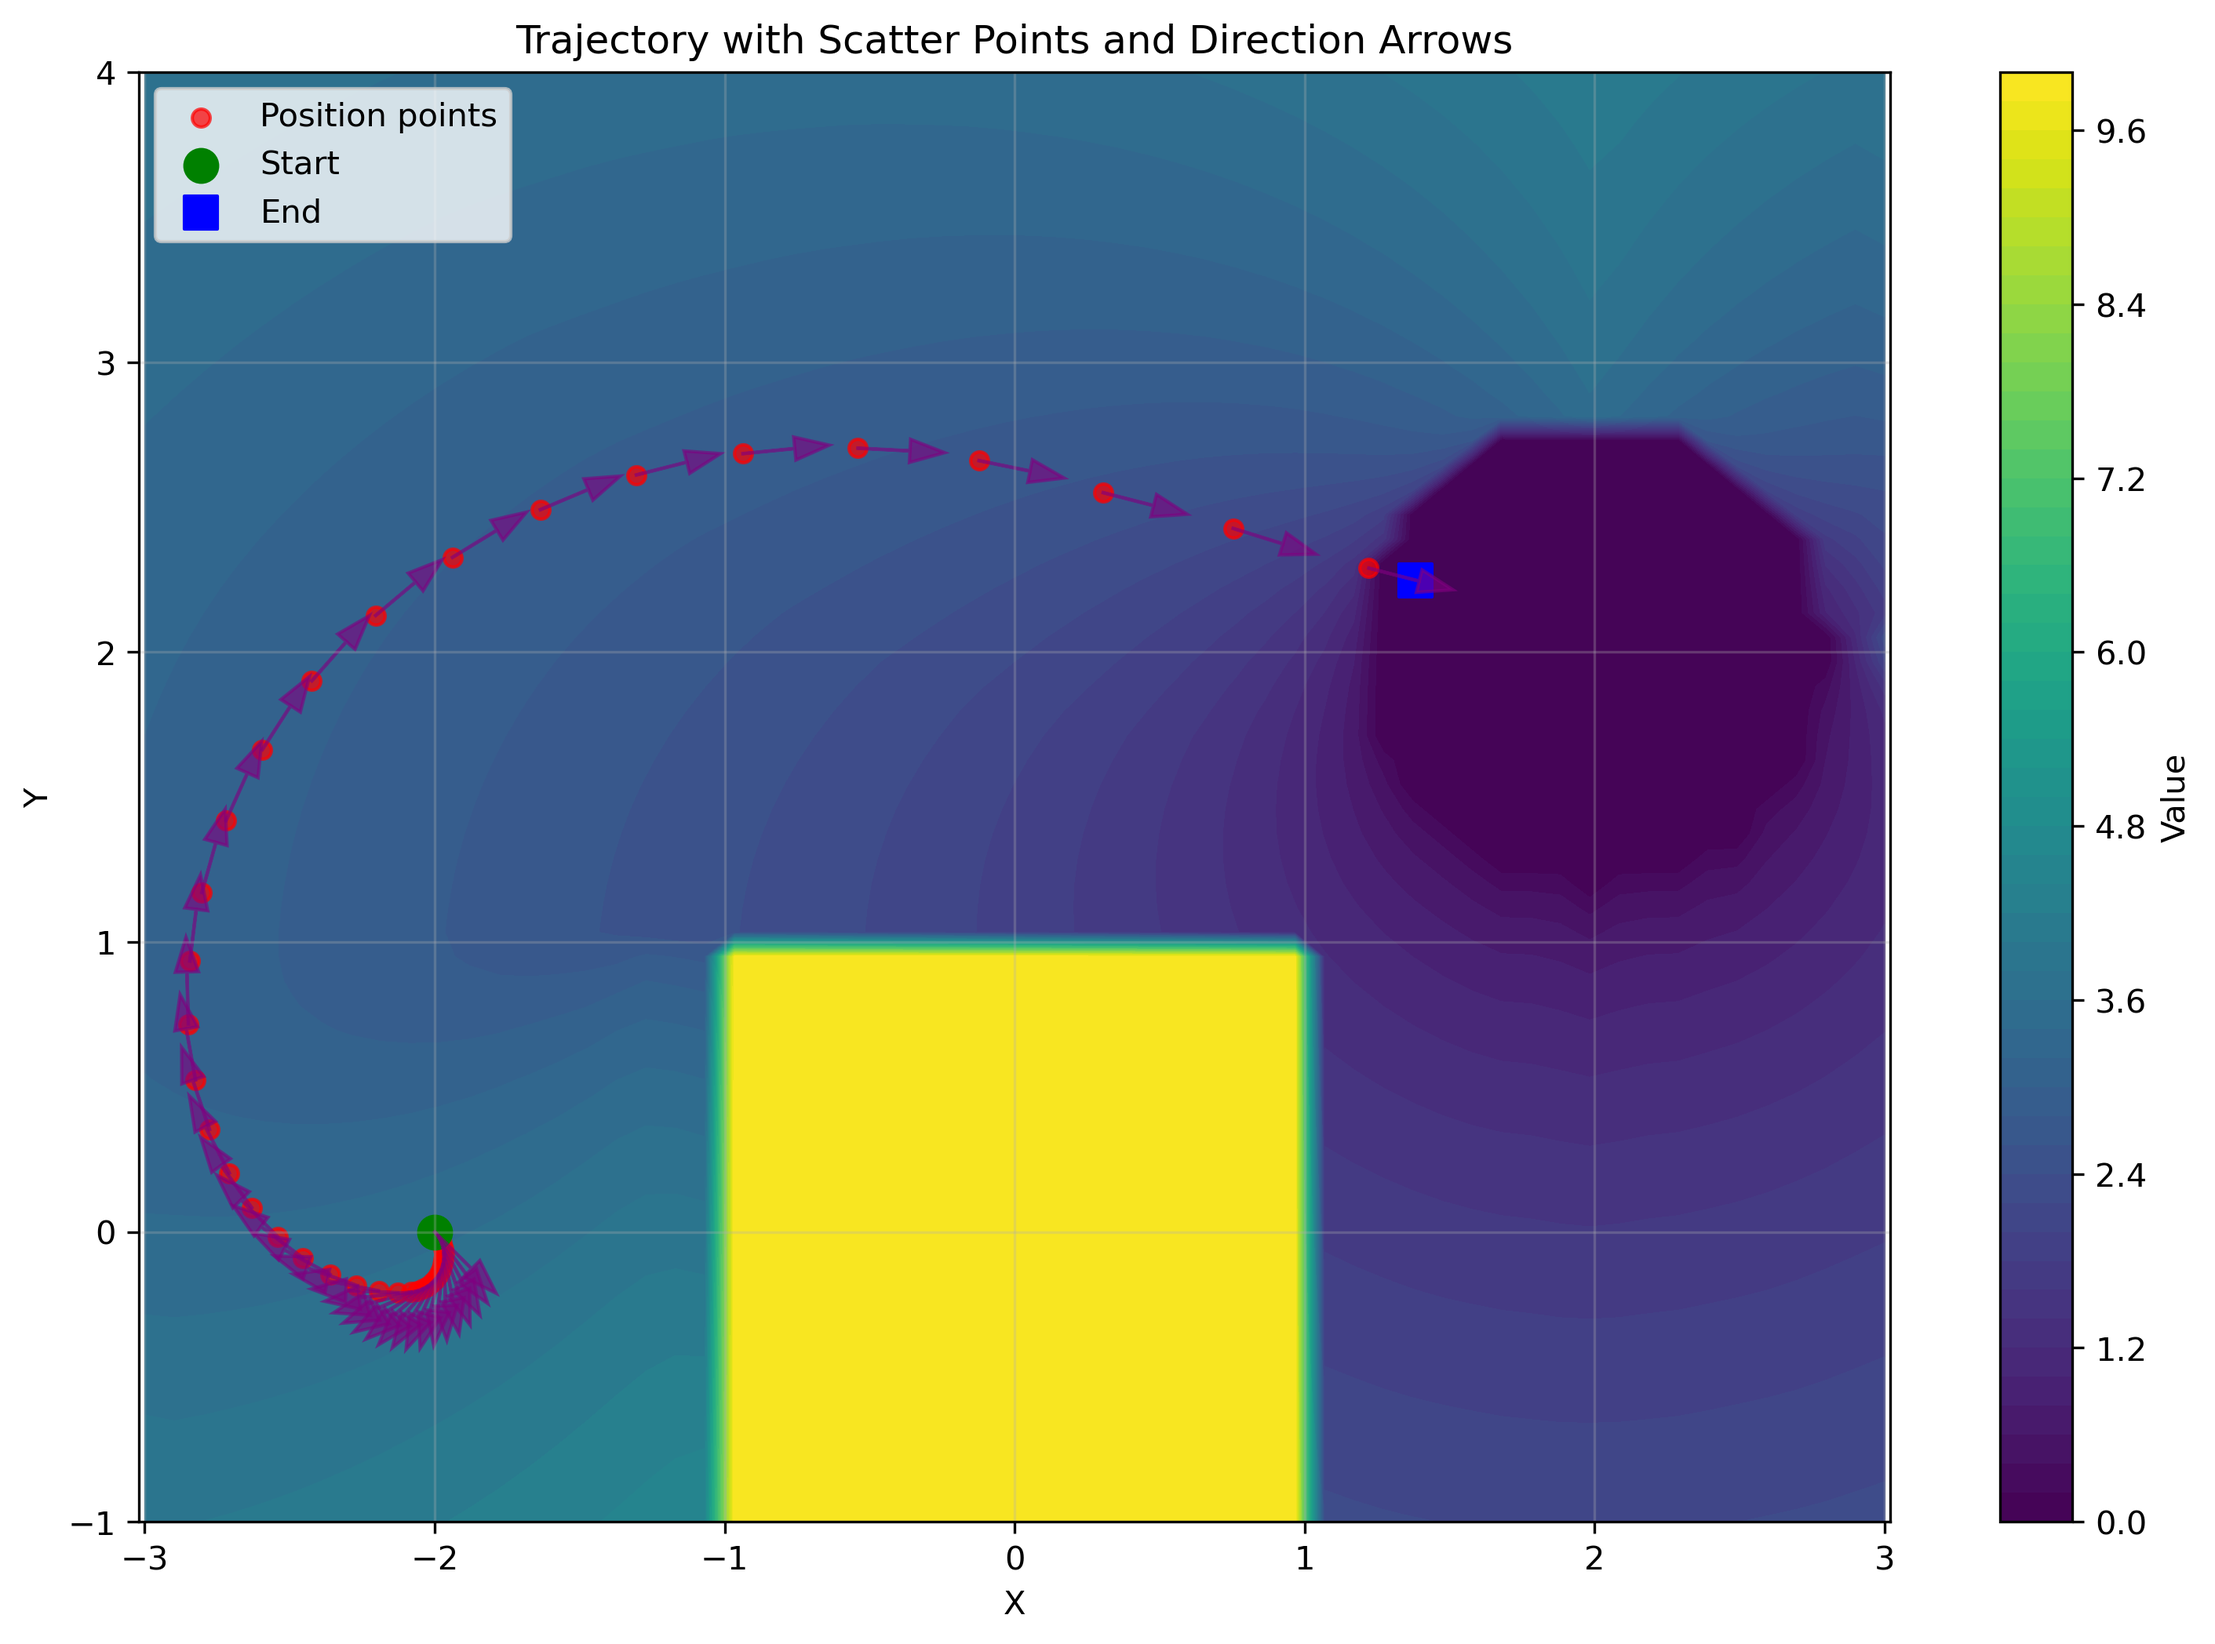
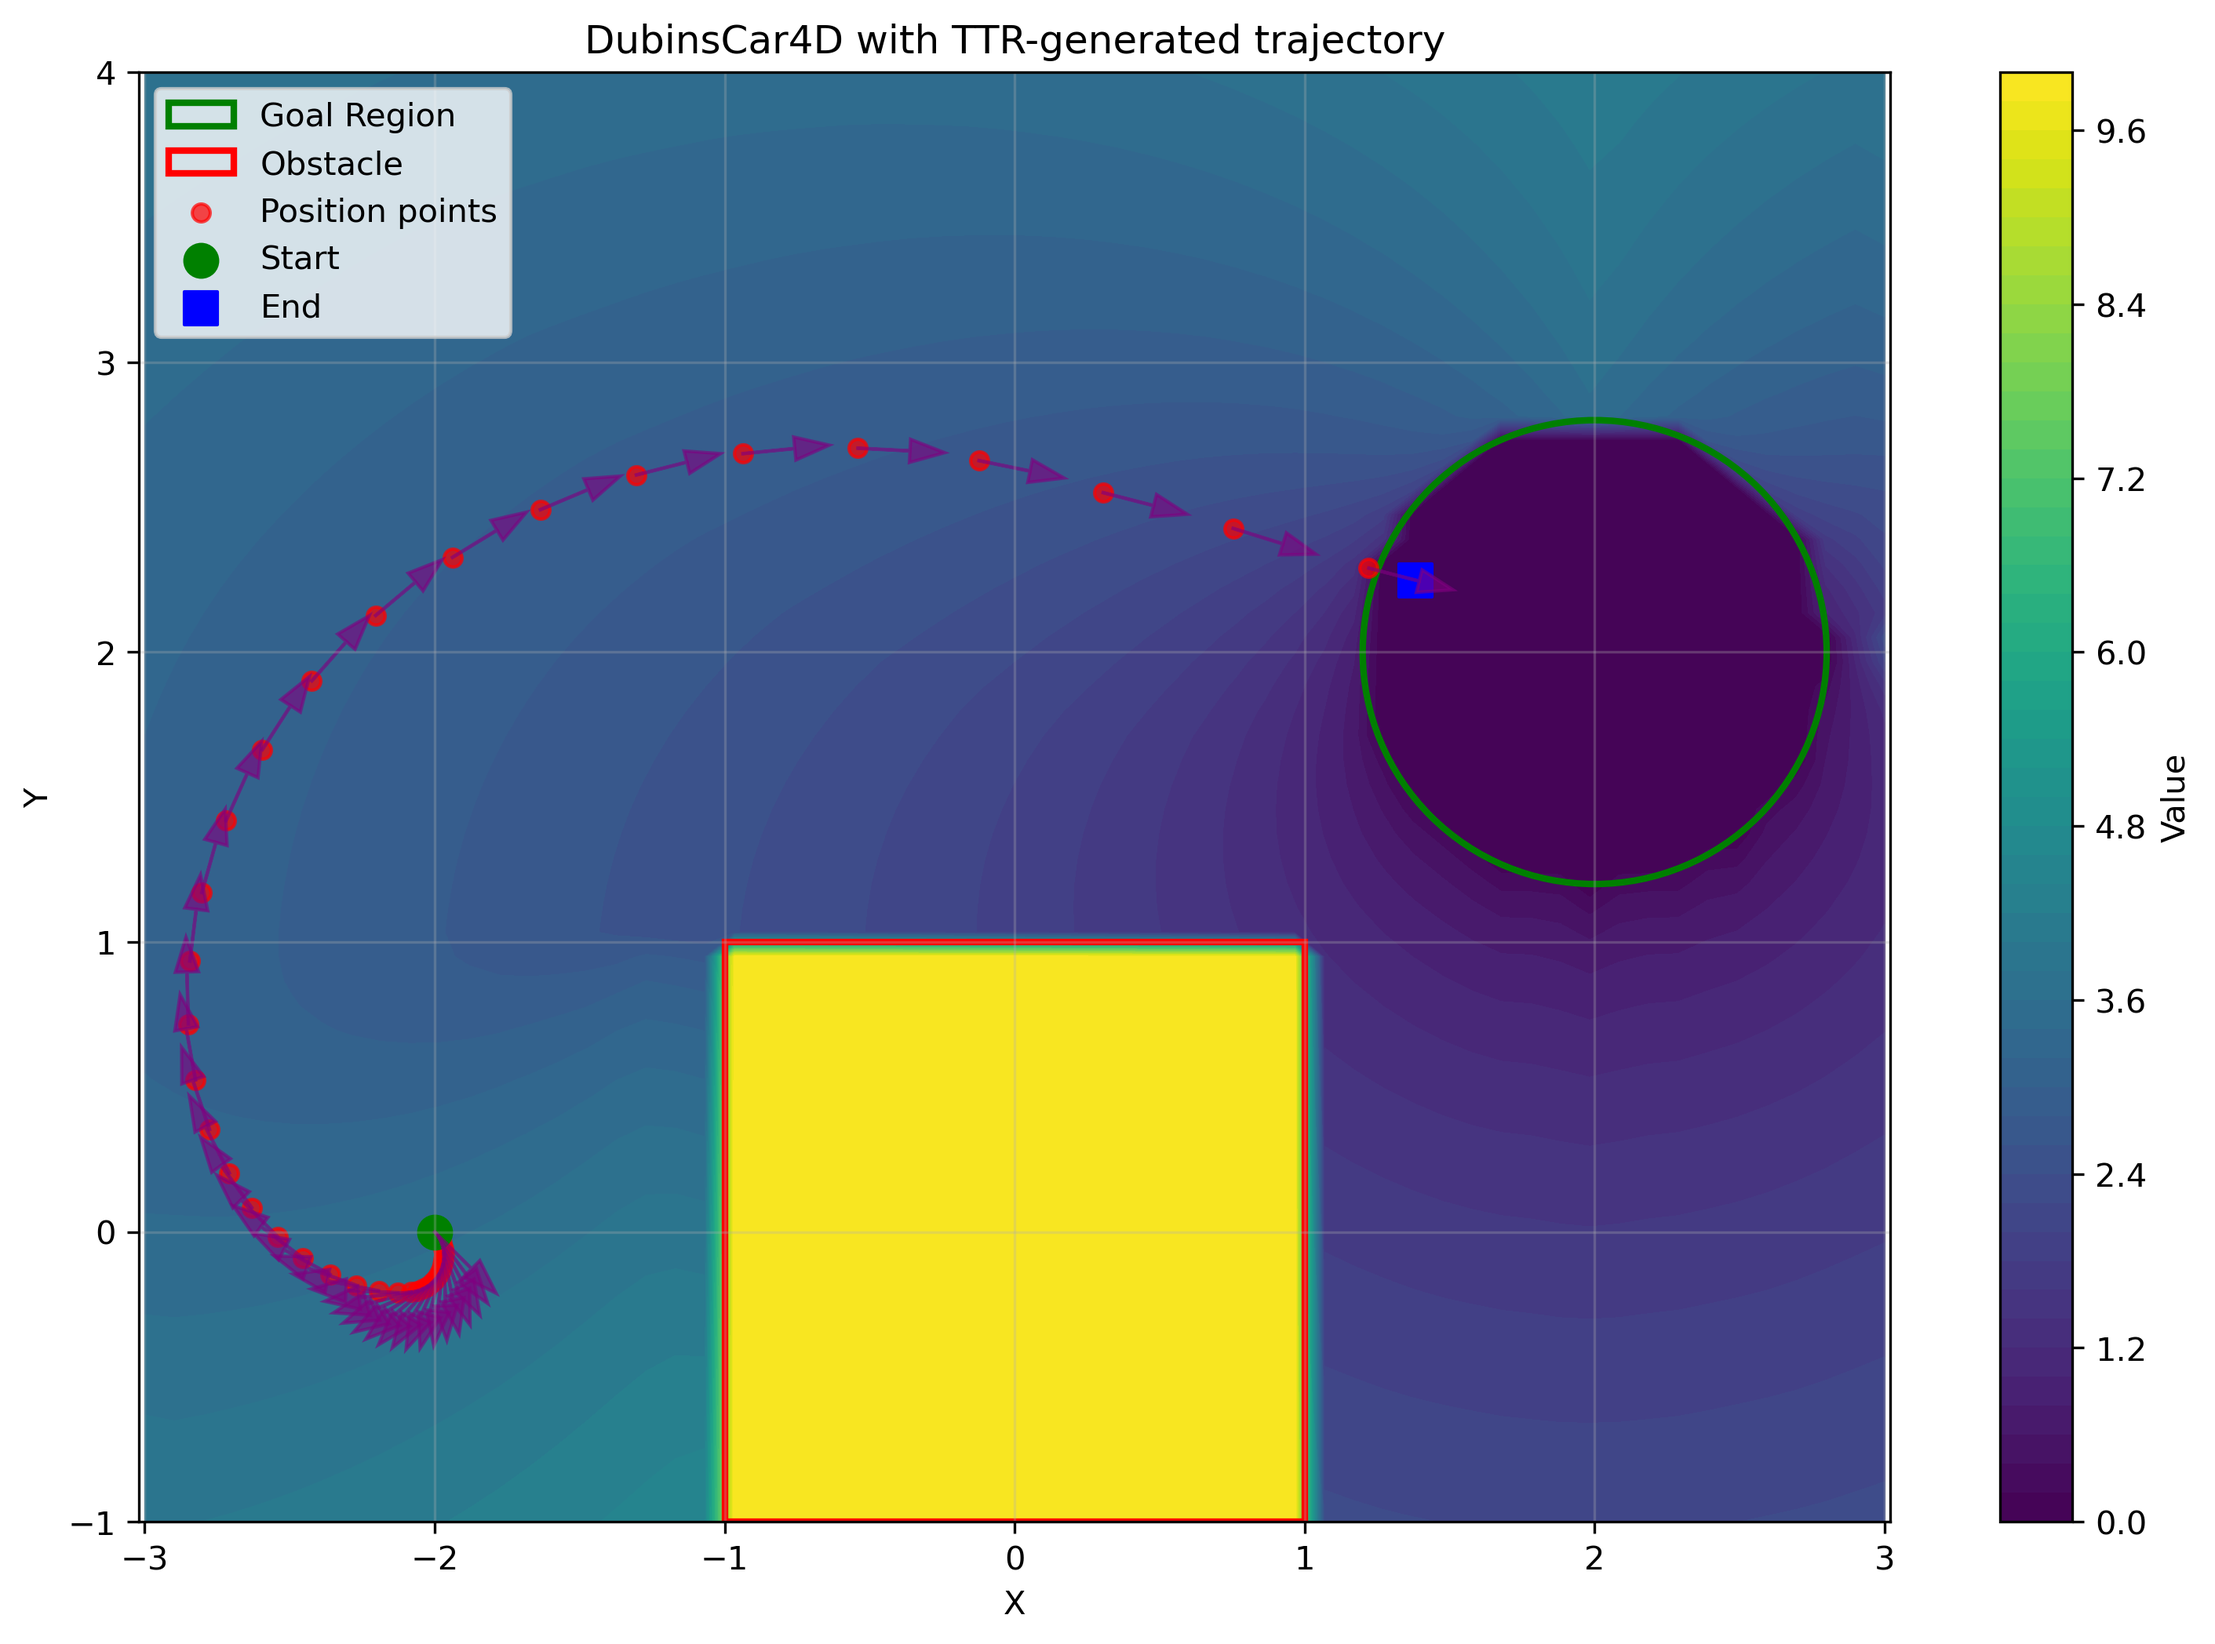
revise the plotting functions

diff --git a/paper_examples/odp_paper/utils.py b/paper_examples/odp_paper/utils.py
@@ -259,7 +259,7 @@ def plot_trajectory_scatter(traj, ax=None, save_dir=None, scatter_density=10, x_
     
     ax.set_xlabel('X')
     ax.set_ylabel('Y')
-    ax.set_title('Trajectory with Scatter Points and Direction Arrows')
+    ax.set_title('DubinsCar4D with TTR-generated trajectory')
     ax.legend(loc='upper left')
     ax.grid(True, alpha=0.3)
     ax.axis('equal')
@@ -312,9 +312,12 @@ def plot_trajectories_basic(p_traj, e_traj, save_dir=None):
     plt.show()
 
 
-def plot_value_contour(grid, value_function, plot_dims, fixed_values=None, vmin=0, vmax=10, ax=None, save_dir=None):
+def plot_value_contour(grid, value_function, plot_dims, fixed_values=None, vmin=0, vmax=10, 
+                      ax=None, save_dir=None, goal_center=None, goal_radius=None, 
+                      obstacles=None, obstacle_color='red', goal_color='green',
+                      linewidth=2, linestyle='-'):
     """
-    Plot a contour slice of a 4D value function.
+    Plot a contour slice of a 4D value function with goal and obstacles (boundaries only).
     
     Parameters:
     -----------
@@ -331,6 +334,20 @@ def plot_value_contour(grid, value_function, plot_dims, fixed_values=None, vmin=
         Axes to plot on. If None, creates new figure.
     vmin, vmax : float
         Value range for color mapping
+    goal_center : tuple, optional
+        (x, y) coordinates of the goal center
+    goal_radius : float, optional
+        Radius of the goal circle
+    obstacles : list of tuples, optional
+        List of obstacle rectangles as [(x_min, x_max, y_min, y_max), ...]
+    obstacle_color : str, optional
+        Color for obstacle boundaries
+    goal_color : str, optional
+        Color for goal boundary
+    linewidth : float, optional
+        Line width for boundaries
+    linestyle : str, optional
+        Line style for boundaries
     
     Returns:
     --------
@@ -427,11 +444,32 @@ def plot_value_contour(grid, value_function, plot_dims, fixed_values=None, vmin=
     # Add colorbar
     cbar = fig.colorbar(contour, ax=ax, label='Value')
     
+    # Plot goal circle boundary if provided
+    if goal_center is not None and goal_radius is not None:
+        goal_circle = plt.Circle(goal_center, goal_radius, color=goal_color, alpha=1.0, 
+                               fill=False, linewidth=linewidth, linestyle=linestyle,
+                               label='Goal Region')
+        ax.add_patch(goal_circle)
+    
+    # Plot obstacle boundaries if provided
+    if obstacles is not None:
+        for i, (x_min, x_max, y_min, y_max) in enumerate(obstacles):
+            width = x_max - x_min
+            height = y_max - y_min
+            obstacle_rect = plt.Rectangle((x_min, y_min), width, height, 
+                                        color=obstacle_color, alpha=1.0, 
+                                        fill=False, linewidth=linewidth, linestyle=linestyle,
+                                        label='Obstacle' if i == 0 else "")
+            ax.add_patch(obstacle_rect)
+    
     # Set labels and title
     ax.set_xlabel(x_label)
     ax.set_ylabel(y_label)
     ax.set_title(f'Value Function Contour ({", ".join(title_parts)})\nValues clipped to [{vmin}, {vmax}]')
     ax.grid(True, alpha=0.3)
+    
+    # Set aspect ratio to equal and adjust limits
+    ax.set_aspect('equal')
     
     if save_dir is not None:
         fig.savefig(f"{save_dir}/TTR.png", dpi=300, bbox_inches='tight')

diff --git a/paper_examples/odp_paper/dubins4d_ttr_game.py b/paper_examples/odp_paper/dubins4d_ttr_game.py
@@ -68,7 +68,14 @@ for step in range(int(T/t)):
 # Plotting
 x_limit = [-3., 3.]
 y_limit = [-1., 4.]
-fig, ax= plot_value_contour(grid, ttr_value, [0, 1], {2: 0.1, 3: math.pi/2})
+fig, ax= plot_value_contour(grid=grid,
+                            value_function=ttr_value,
+                            plot_dims=[0, 1],
+                            fixed_values={2: 0.1, 3: math.pi/2},
+                            goal_center=(2., 2.),
+                            goal_radius=0.8,
+                            obstacles=[(-1.0, 1.0, -1.0, 1.0)],
+                            )
 
 plot_trajectory_scatter(agent_traj, ax=ax, save_dir=f"{current_directory}/hj_figures/", scatter_density=3, x_limit=x_limit, y_limit=y_limit)
         
